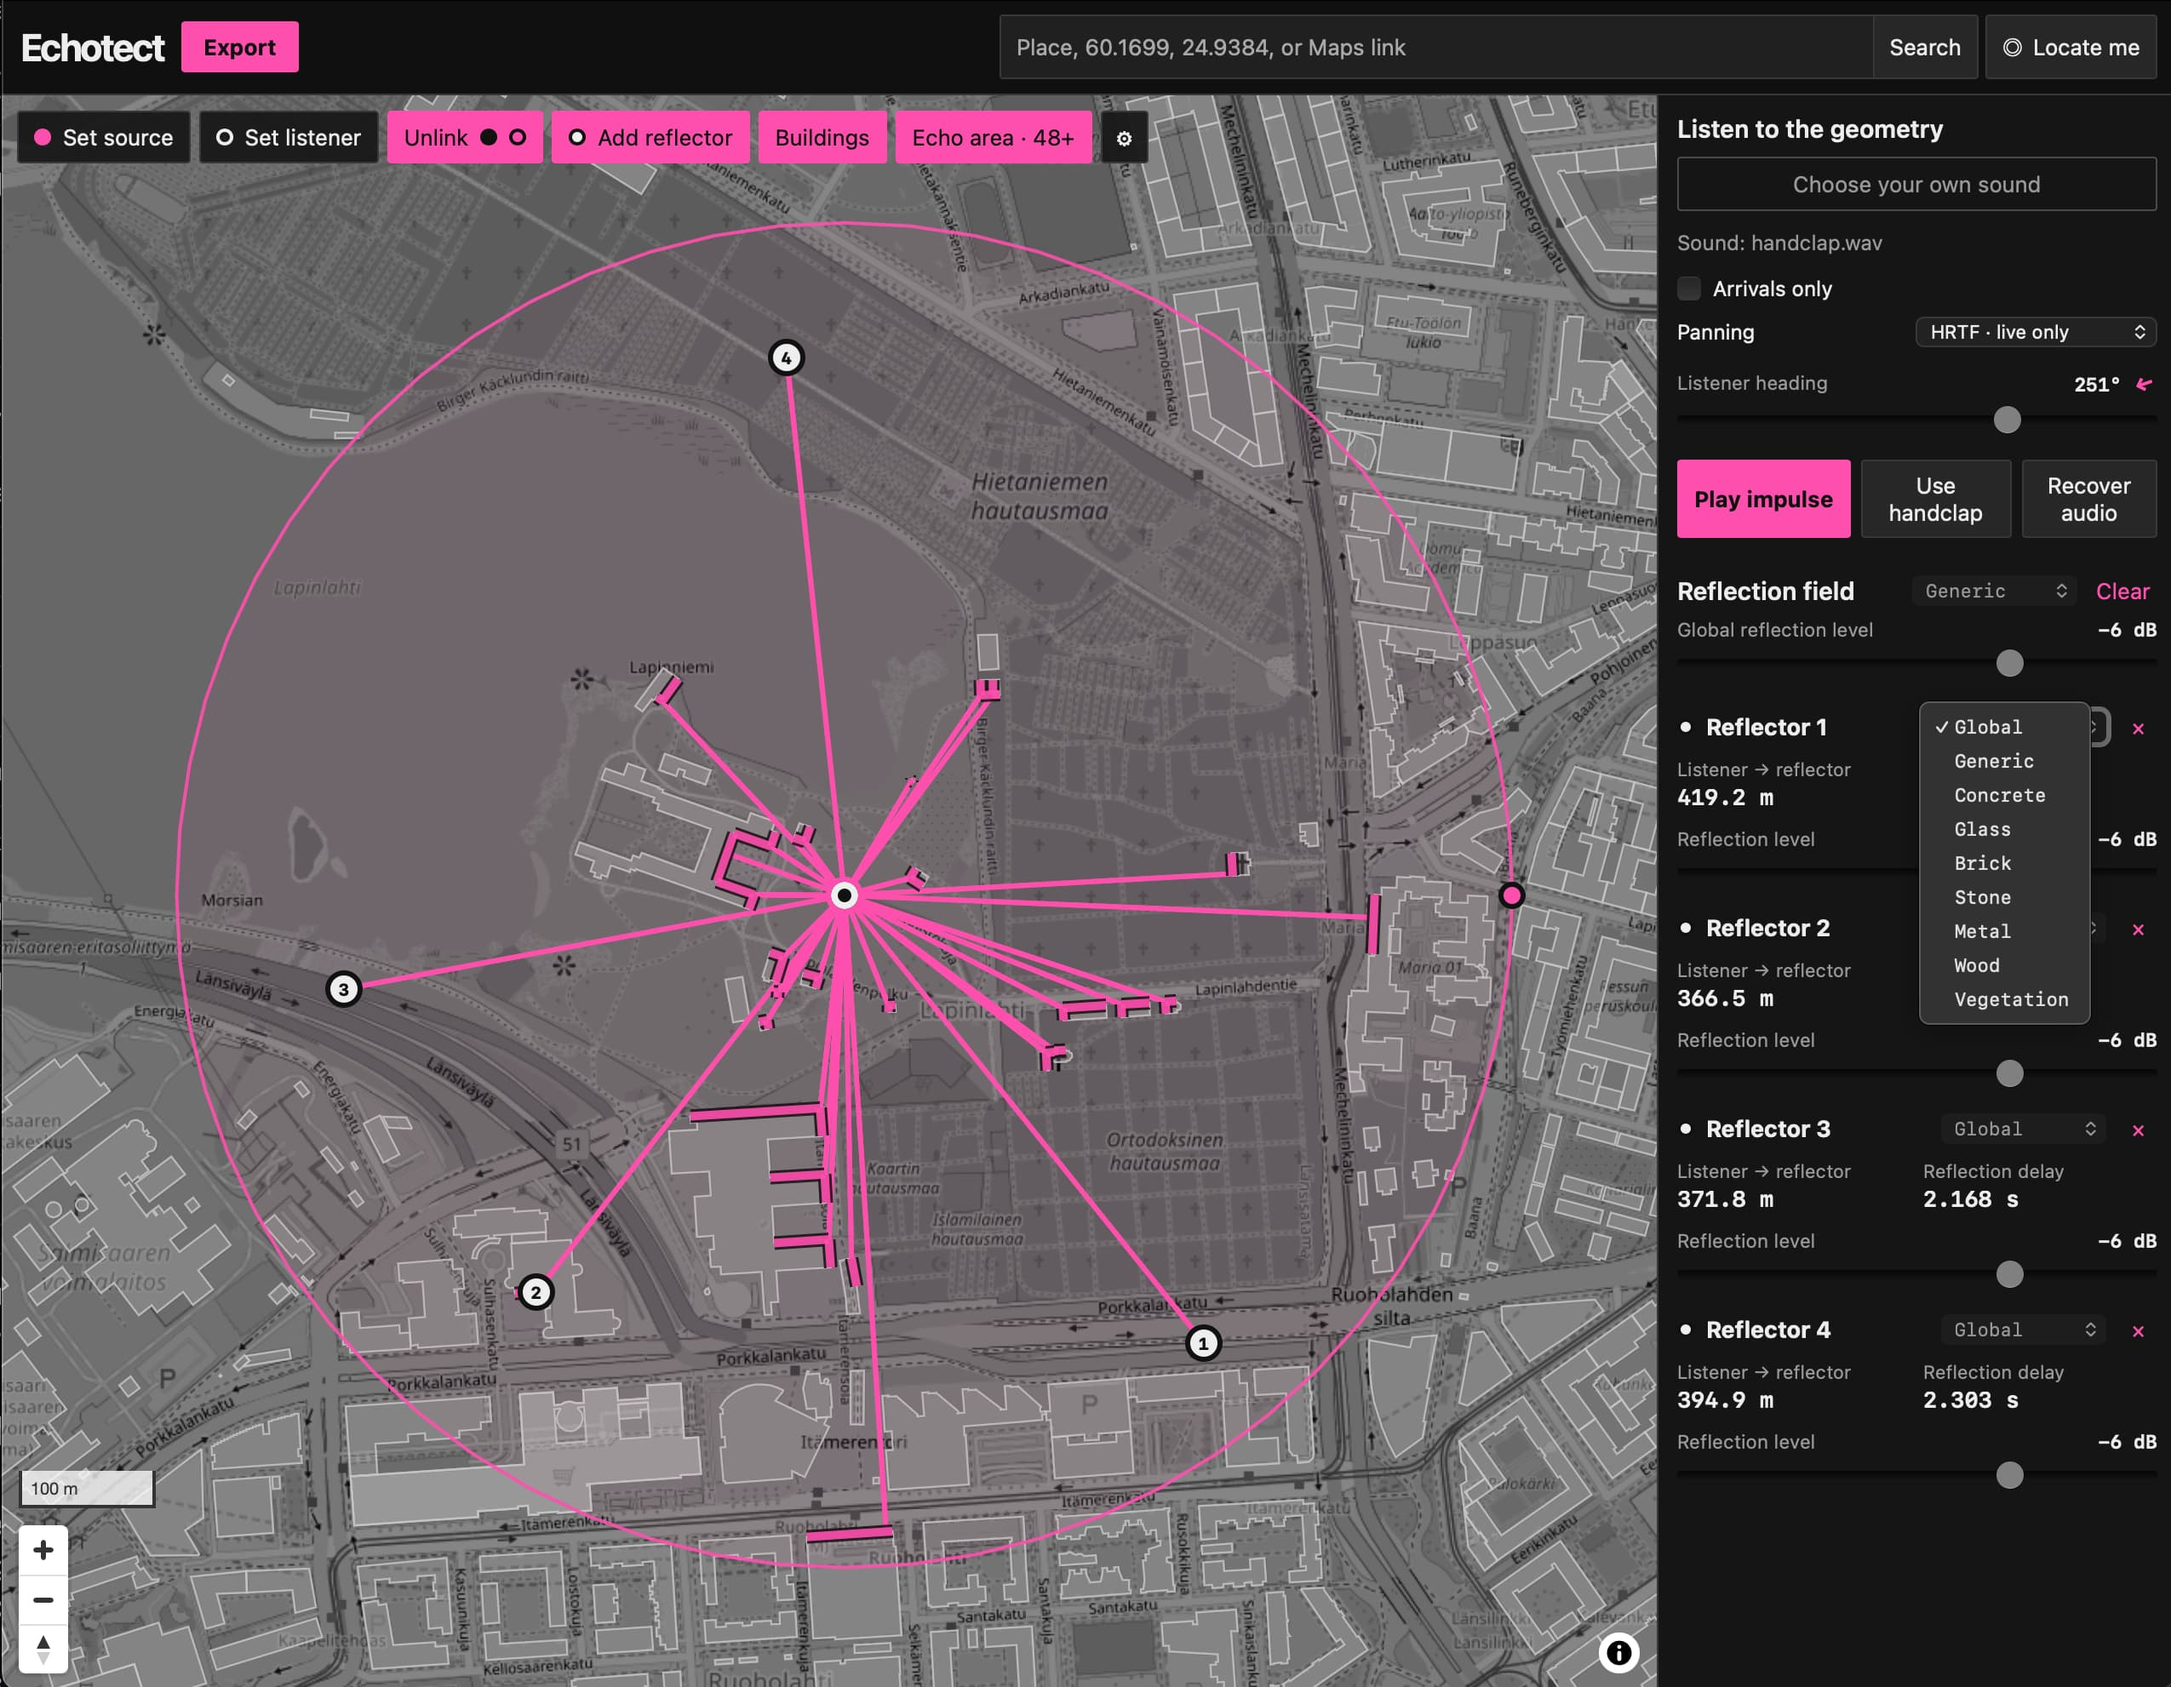
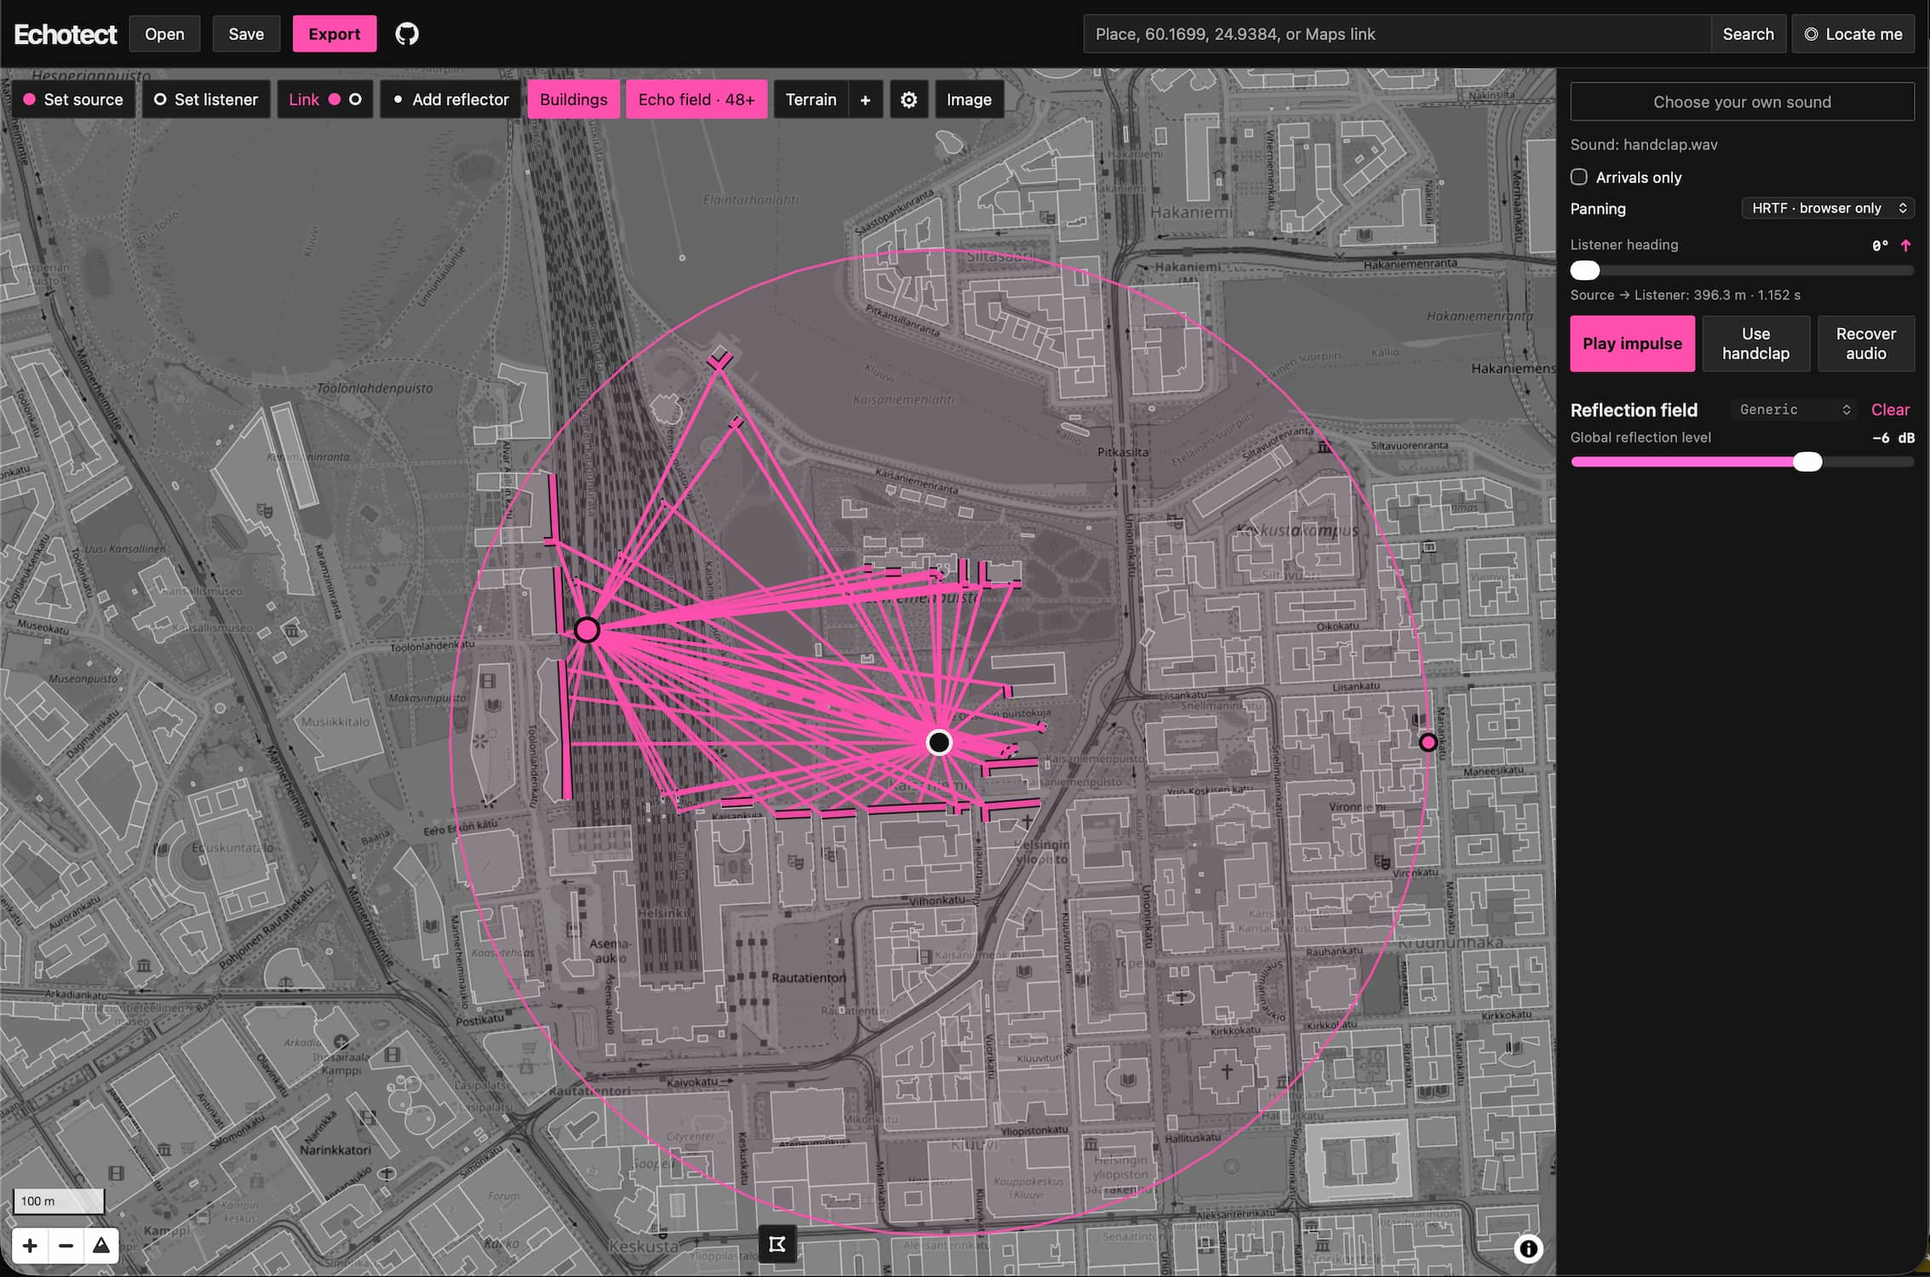
Describe features plainly and update screenshots
The README describes Map, Image, and Terrain as independent layers and
lists Buildings, Image, and Terrain features by what each one does.
The app and Echotect Field screenshots show the current interface.

diff --git a/README.md b/README.md
@@ -17,56 +17,51 @@ energy; materials shape their absorption, and the spatial mode controls how the
 result is heard. Audio can be exported as impulse responses, a wet render, or
 aligned stems.
 
+Map, Image, and Terrain are independent layers, and only the active one is
+heard. Map and Image share the Source, Listener, reflectors, and structures;
+Terrain has its own Source and Listener.
+
 Use **Save** and **Open** for editable project files. Use **Export** for audio
 and project manifests.
-
-Use **Image** to replace the map with a PNG, JPEG, or WebP sketch. Calibrate its
-scale from a known distance in the image, rotate it as needed, and place Source,
-Listener, and Point Reflectors on top. The image is included in the saved project.
 
 Structures are editable polygons in Map and Image modes. Their edges provide
 reflective surfaces to the Echo field.
 
-Use **Terrain** to build the echo field from real elevation data. Drag a
-rectangle on the map; its terrain is loaded, drawn as a hillshade, and becomes
-the reflecting space, with paths running in three dimensions through the air.
-Drag the rectangle to capture another place, or reshape it from its corners.
-Press **Terrain** again to return to the map space; press it once more to reopen
-the saved terrain without drawing it again. Use the **+** beside Terrain to draw
-a replacement elsewhere; the saved terrain remains until the new one loads.
-Map, Canyon, and Chamber each
-remember their own Source and Listener placement. Delete the capture explicitly
-from the Terrain settings when it is no longer needed. While a terrain is active
-it is the only acoustic space: buildings, structures, and manual reflectors do
-not take part. The mountain button beside the map zoom controls switches between
-the street map and shaded relief in every mode.
+## Buildings
 
-The space panel shows a 3D view or a section through the Source and Listener and
-can open in its own window. Reflections light up in the 3D view during playback.
+- **Buildings** — Shows building footprints on the map.
 
-- **Canyon / Chamber** — Canyon hears the air above the terrain: canyons,
-  valley sides, and mountain flanks reflect. Chamber is creative geometry: the
-  terrain's shape as a hollow above a flat floor, narrowing upward as the relief
-  does.
-- **Floor** — Sets the Chamber floor. Raising it narrows the cavity and splits
-  it under separate summits.
-- **Scale** — Uniformly scales the fixed acoustic space from 1:100 to 10:1,
-  including the terrain, Source, Listener, and reflection paths. Their map
-  positions and relative 3D geometry stay unchanged; distances and delays
-  follow the scaled space.
-- **Listener height** / **Source height** — Height above the ground, or above
-  the floor in a Chamber, where it is limited by the ceiling overhead.
-  Canyon and Chamber remember their own heights and map positions when you
-  switch between them.
+## Image
 
-The Terrain tab in the settings holds the surface:
+- **Image** — Places a PNG, JPEG, or WebP image over the map. The image is saved
+  in the project.
+- **Scale** — Sets the image scale from a known distance between two points.
+- **Rotation** — Rotates the image.
+- **Opacity** — Sets how much of the map shows through the image.
 
-- **Material** — Sets the absorption of the whole terrain. Natural ground
-  materials use absorption computed from measured flow resistivity.
-- **Scattering** — Splits reflected energy between discrete specular echoes and
-  diffuse scattering.
-- **Ground reflection** — Adjusts the ground under the Source and Listener;
-  0 dB is the physical level and Off removes it.
+## Terrain
+
+- **Terrain** — Uses the elevation data inside a drawn rectangle as the echo
+  field, or switches between the map and the saved terrain. The rectangle can
+  be moved and reshaped.
+- **+** — Draws a new terrain in place of the saved one.
+- **Relief** — The mountain button beside the zoom controls switches the map to
+  shaded relief.
+- **Space panel** — Shows the terrain in 3D or as a section through the Source
+  and Listener, in the side panel or its own window.
+- **Canyon / Chamber** — Canyon reflects from the terrain surface. Chamber uses
+  the terrain as a hollow above a flat floor. Each keeps its own Source and
+  Listener placement.
+- **Floor** — Sets the Chamber floor height.
+- **Scale** — Scales the acoustic space from 1:100 to 10:1. The map does not
+  change.
+- **Listener height** / **Source height** — Sets the height above the ground,
+  or above the Chamber floor.
+- **Material** — Sets the absorption of the terrain surface.
+- **Scattering** — Balances discrete echoes and diffuse scattering.
+- **Ground reflection** — Sets the level of the reflection from the ground under
+  the Source and Listener.
+- **Delete terrain** — Removes the saved terrain.
 
 ## Echo field settings
 
